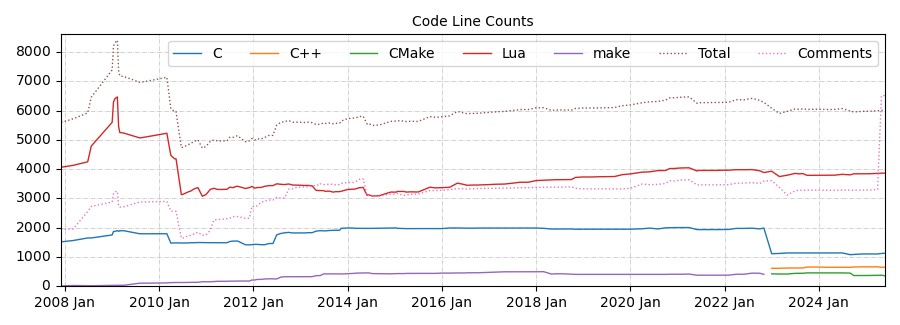
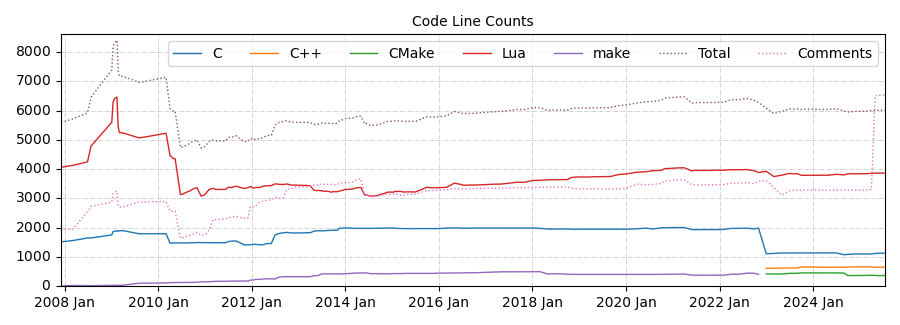
Updated for 12.8.

diff --git a/docs/README.md b/docs/README.md
@@ -58,7 +58,7 @@ and a Qt runtime is distributed with Windows and macOS builds.
 You can download pre-built binaries for various platforms, as well as source code from the
 links below.
 
-Stable Release<br/>(12.7) | Beta Release<br/>(N/A) | Experimental<br/>nightly build
+Stable Release<br/>(12.8) | Beta Release<br/>(N/A) | Experimental<br/>nightly build
 -|-|-
 [Windows][stable win] | | [Windows][nightly win]
 [macOS][stable mac] | | [macOS][nightly mac]
@@ -68,12 +68,12 @@ Stable Release<br/>(12.7) | Beta Release<br/>(N/A) | Experimental<br/>nightly bu
 
 A list of all released versions is [here][all versions] along with their release notes.
 
-[stable win]: https://github.com/orbitalquark/textadept/releases/download/textadept_12.7/textadept_12.7.win.zip
-[stable mac]: https://github.com/orbitalquark/textadept/releases/download/textadept_12.7/textadept_12.7.macOS.zip
-[stable linux]: https://github.com/orbitalquark/textadept/releases/download/textadept_12.7/textadept_12.7.linux.tgz
-[stable arm]: https://github.com/orbitalquark/textadept/releases/download/textadept_12.7/textadept_12.7.linux.arm.tgz
-[stable modules]: https://github.com/orbitalquark/textadept/releases/download/textadept_12.7/textadept_12.7.modules.zip
-[stable source]: https://github.com/orbitalquark/textadept/archive/refs/tags/textadept_12.7.zip
+[stable win]: https://github.com/orbitalquark/textadept/releases/download/textadept_12.8/textadept_12.8.win.zip
+[stable mac]: https://github.com/orbitalquark/textadept/releases/download/textadept_12.8/textadept_12.8.macOS.zip
+[stable linux]: https://github.com/orbitalquark/textadept/releases/download/textadept_12.8/textadept_12.8.linux.tgz
+[stable arm]: https://github.com/orbitalquark/textadept/releases/download/textadept_12.8/textadept_12.8.linux.arm.tgz
+[stable modules]: https://github.com/orbitalquark/textadept/releases/download/textadept_12.8/textadept_12.8.modules.zip
+[stable source]: https://github.com/orbitalquark/textadept/archive/refs/tags/textadept_12.8.zip
 [nightly win]: https://github.com/orbitalquark/textadept/releases/download/textadept_nightly/textadept_nightly.win.zip
 [nightly mac]: https://github.com/orbitalquark/textadept/releases/download/textadept_nightly/textadept_nightly.macOS.zip
 [nightly linux]: https://github.com/orbitalquark/textadept/releases/download/textadept_nightly/textadept_nightly.linux.tgz

diff --git a/docs/api.md b/docs/api.md
@@ -1,4 +1,4 @@
-# Textadept 12.7 API Documentation
+# Textadept 12.8 API Documentation
 
 1. [_G](#_G)
 2. [_L](#_L)
@@ -3238,6 +3238,16 @@ Parameters:
 	The image dimensions, [`view.rgba_image_width`](#view.rgba_image_width) and [`view.rgba_image_height`](#view.rgba_image_height), must have
 	already been defined.
 
+<a id="view.auto_c_image_scale"></a>
+#### `view.auto_c_image_scale`
+
+The scale factor in percent of *all* list images shown.
+
+This is useful on macOS with a retina display where each display unit is 2 pixels: use a
+factor of `200` so that each image pixel is displayed using a screen pixel.
+The default scale, `100`, will stretch each image pixel to cover 4 screen pixels on a
+retina display.
+
 <a id="buffer.auto_c_type_separator"></a>
 #### `buffer.auto_c_type_separator`
 
@@ -3535,6 +3545,17 @@ Scrolls the buffer by columns and lines.
 Parameters:
 - *columns*:  Number of columns to scroll horizontally. A negative value is allowed.
 - *lines*:  Number of lines to scroll vertically. A negative value is allowed.
+
+<a id="view.scroll_vertical"></a>
+#### `view:scroll_vertical`(*display_line*, *subline*)
+
+Scrolls the top line of the view to be the wrapped sub-line of a displayed line number.
+
+Parameters:
+- *display_line*:  Display line number to use (taking wrapped, annotated, and hidden lines
+	into account).
+- *subline*:  The sub-line of *display_line* to scroll to. A value of 1 is equivalent to
+	*display_line*. This is ignored if wrapping is off.
 
 <a id="view.scroll_caret"></a>
 #### `view:scroll_caret`()
@@ -4096,7 +4117,7 @@ The default value is `0`.
 <a id="view.caret_line_highlight_subline"></a>
 #### `view.caret_line_highlight_subline`
 
-Show the caret line on sublines rather than entire wrapped lines.
+Show the caret line on sub-lines rather than entire wrapped lines.
 
 The defalt value is `false`.
 
@@ -4360,7 +4381,7 @@ Where to mark wrapped lines.
 - `view.WRAPVISUALFLAGLOC_END_BY_TEXT`: Draw a visual flag near text at the end of a
 	wrapped line.
 - `view.WRAPVISUALFLAGLOC_START_BY_TEXT`: Draw a visual flag near text at the beginning of
-	a subline.
+	a sub-line.
 
 The default value is `view.WRAPVISUALFLAGLOC_DEFAULT`.
 

diff --git a/docs/manual.md b/docs/manual.md
@@ -1,4 +1,4 @@
-# Textadept 12.7 Manual
+# Textadept 12.8 Manual
 
 **Contents**
 
